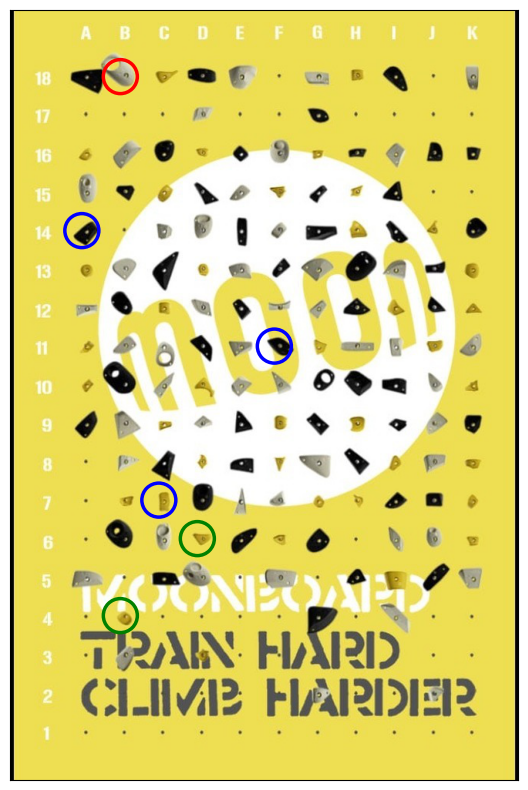
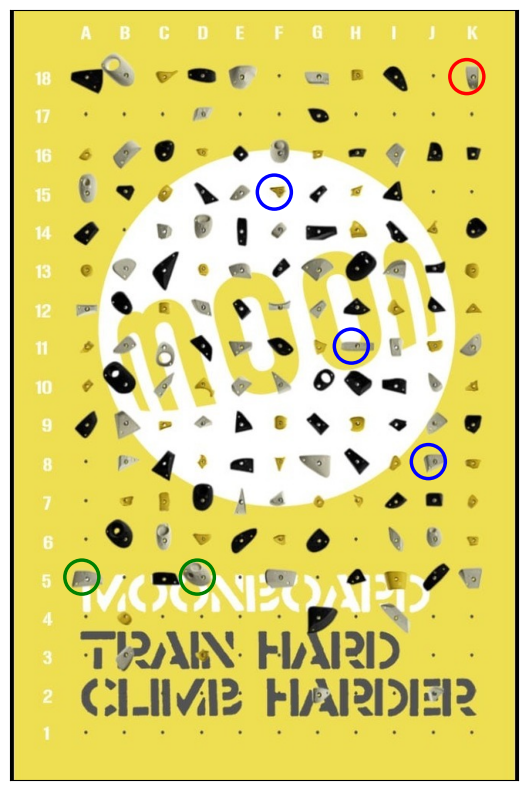
change

diff --git a/main.py b/main.py
@@ -1,6 +1,3 @@
-import matplotlib
-matplotlib.use('Agg') 
-import logging
 import numpy as np
 from flask import Flask, request, jsonify, render_template
 from flask_cors import CORS
@@ -9,9 +6,7 @@ from dotenv import load_dotenv
 from src.model import ClimbNet
 from src.generator import ClimbGenerator
 from src.utils import OutputConversion
-import matplotlib.image as mpimg
-import matplotlib.pyplot as plt
-import networkx as nx
+
 load_dotenv()
 app = Flask(__name__, template_folder='templates')
 CORS(app)
@@ -26,6 +21,7 @@ def index():
 @app.route('/classification')
 def classification():
     return render_template('classification.html')
+
 
 @app.route('/generator', methods=['GET', 'POST'])
 def generator():
@@ -80,49 +76,10 @@ def generator():
                     col = idx % 11
                     label = f'{x_labels[col]}{y_labels[row]}'
                     selected_cells.append(label)
-            image = plot_generated_climb(climb,labels)
+        
             
             
     return render_template('generator+.html', grade=input_grade, vec=selected_cells,img_path=image)#)input_grade=input_grade)
-
-
-
-
-
-
-def plot_generated_climb(climb, labels, img_path='static/generate.jpeg'):
-    
-    h_incpt = 93.3
-    h_scalar = 50
-    v_incpt = 63.5
-    v_scalar = 50
-    holds = []
-    for row in range(18):
-        for col in range(11):
-            hold_id = f"{chr(65 + col)}{row + 1}"
-            x = h_incpt + h_scalar * col
-            y = v_incpt + v_scalar * row
-            holds.append({"id": hold_id, "x": x, "y": y})
-    G = nx.Graph()
-    for hold in holds:
-        G.add_node(hold['id'], pos=(hold['x'], hold['y']))
-    
-    wall_img = mpimg.imread(img_path)
-    fig, ax = plt.subplots(figsize=(15, 10))
-    ax.imshow(wall_img, extent=[0, wall_img.shape[1], 0, wall_img.shape[0]])
-    # Get positions of holds
-    pos = {hold['id']: (hold['x'], hold['y']) for hold in holds}
-    # Highlight the generated climb
-
-    for hold, label in zip(climb, labels):
-        print(climb, labels)
-        color = 'green' if label == 'starting hold' else ('blue' if label == 'intermediate hold' else 'red')
-        nx.draw_networkx_nodes(G, pos, nodelist=[hold], ax=ax, node_size=600, node_color='none', edgecolors=color, linewidths=2.5)
-        # nx.draw_networkx_nodes(G, pos, nodelist=[hold], ax=ax, node_size=600, node_color=color, edgecolors='none', linewidths=2.5, alpha=0.5)
-    output_image_path = 'static/generated_climb.png'
-    plt.savefig('static/generated_climb.png', transparent=True, bbox_inches='tight')  # Save the image to a file
-    plt.close()
-    return output_image_path
 
 
 
